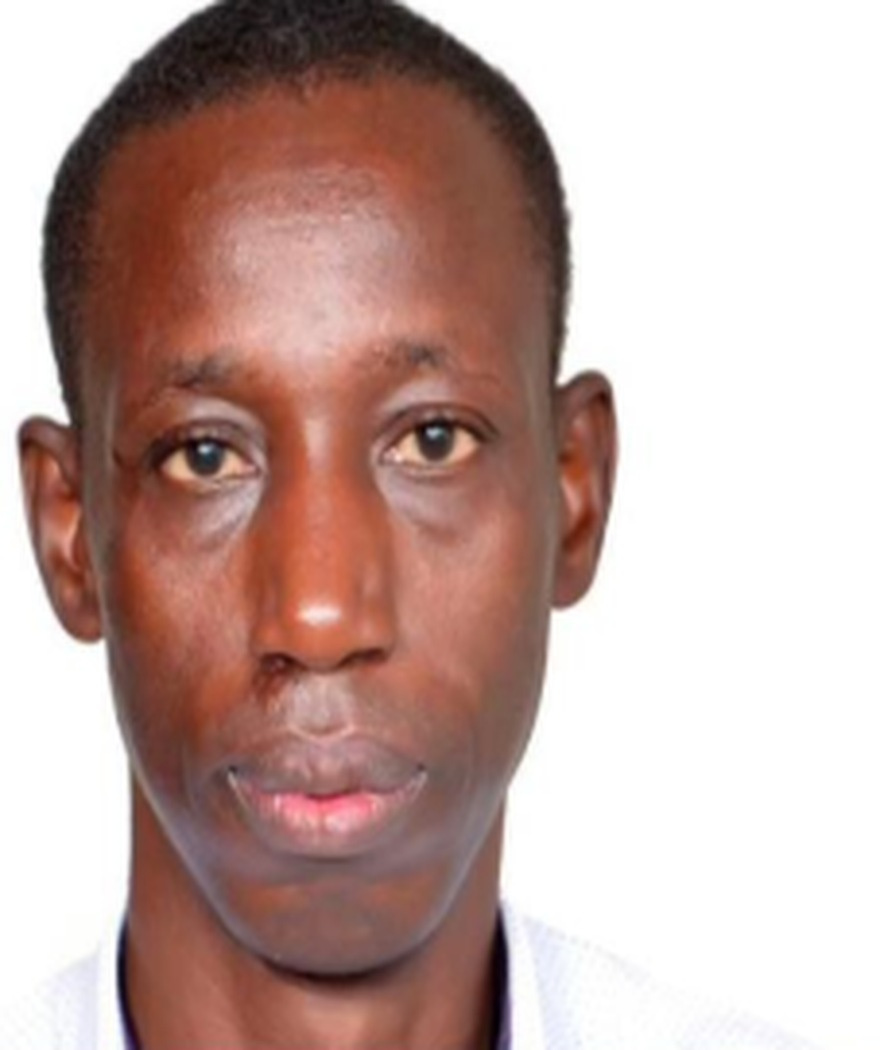
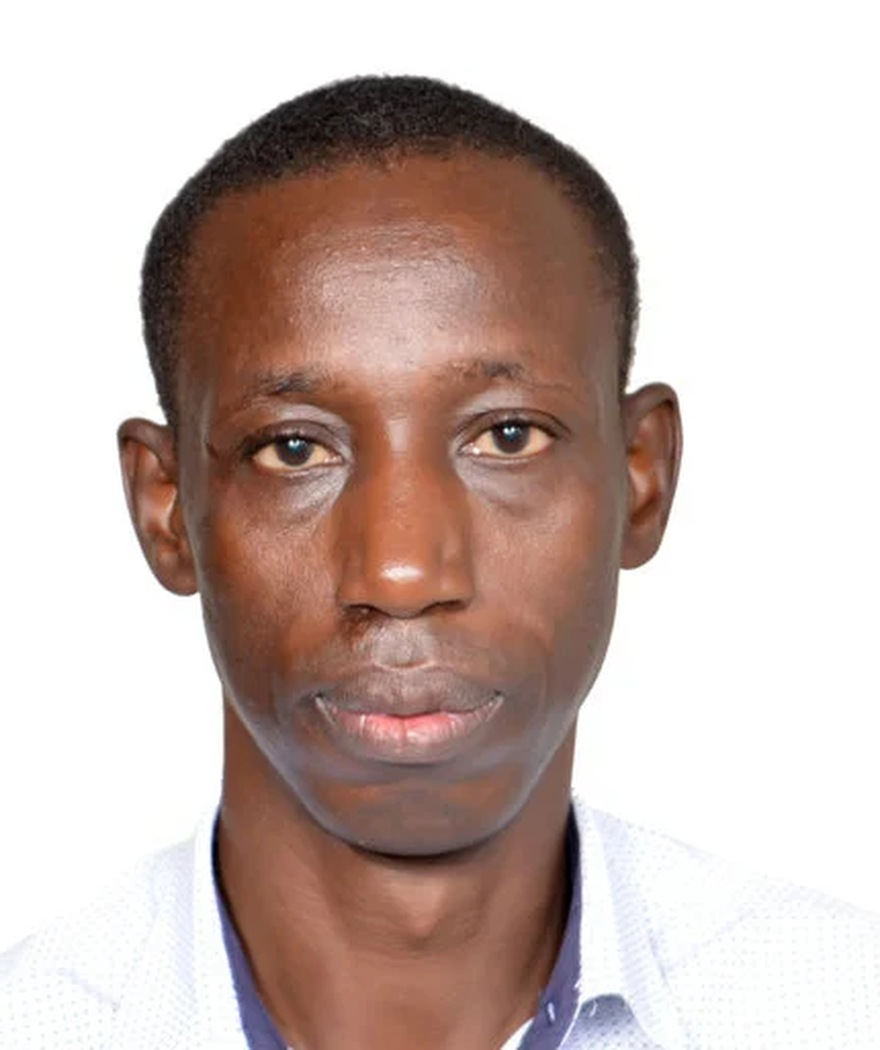
Replace Salifu advisor photo with the provided headshot.

diff --git a/index.html b/index.html
@@ -301,7 +301,7 @@
           <p class="person-role">Modeling Advisor</p>
         </article>
         <article class="advisor-card advisor-card--filled">
-          <img class="person-photo" src="assets/advisor-salifu.jpg?v=2" alt="Dr. Samson Pandam Salifu" width="880" height="1050" loading="lazy" decoding="async">
+          <img class="person-photo" src="assets/advisor-salifu.jpg?v=3" alt="Dr. Samson Pandam Salifu" width="880" height="1050" loading="lazy" decoding="async">
           <h3>Dr. Samson Pandam Salifu</h3>
           <p class="advisor-creds">BSc, MSc, PhD</p>
           <p class="person-meta">Professor, KNUST / KCCR</p>
